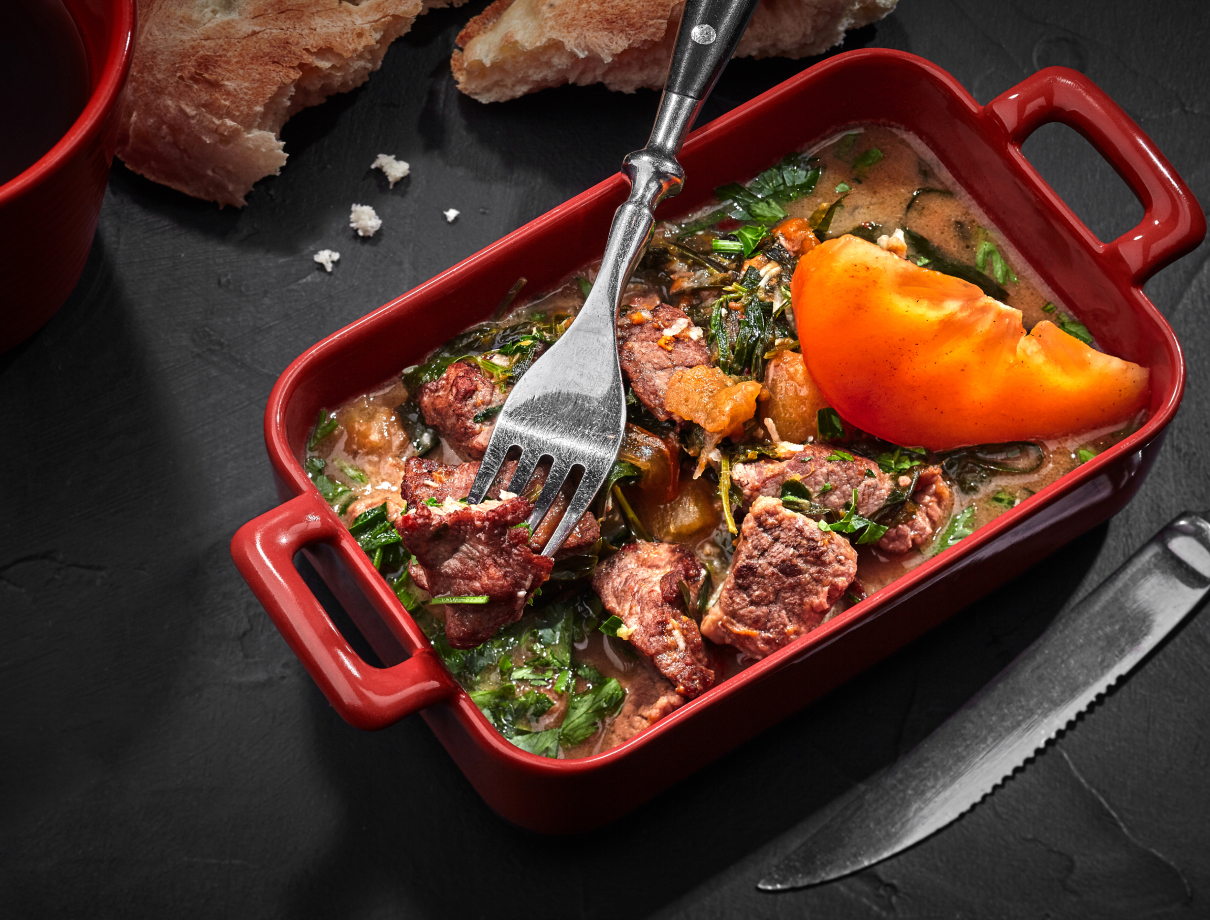
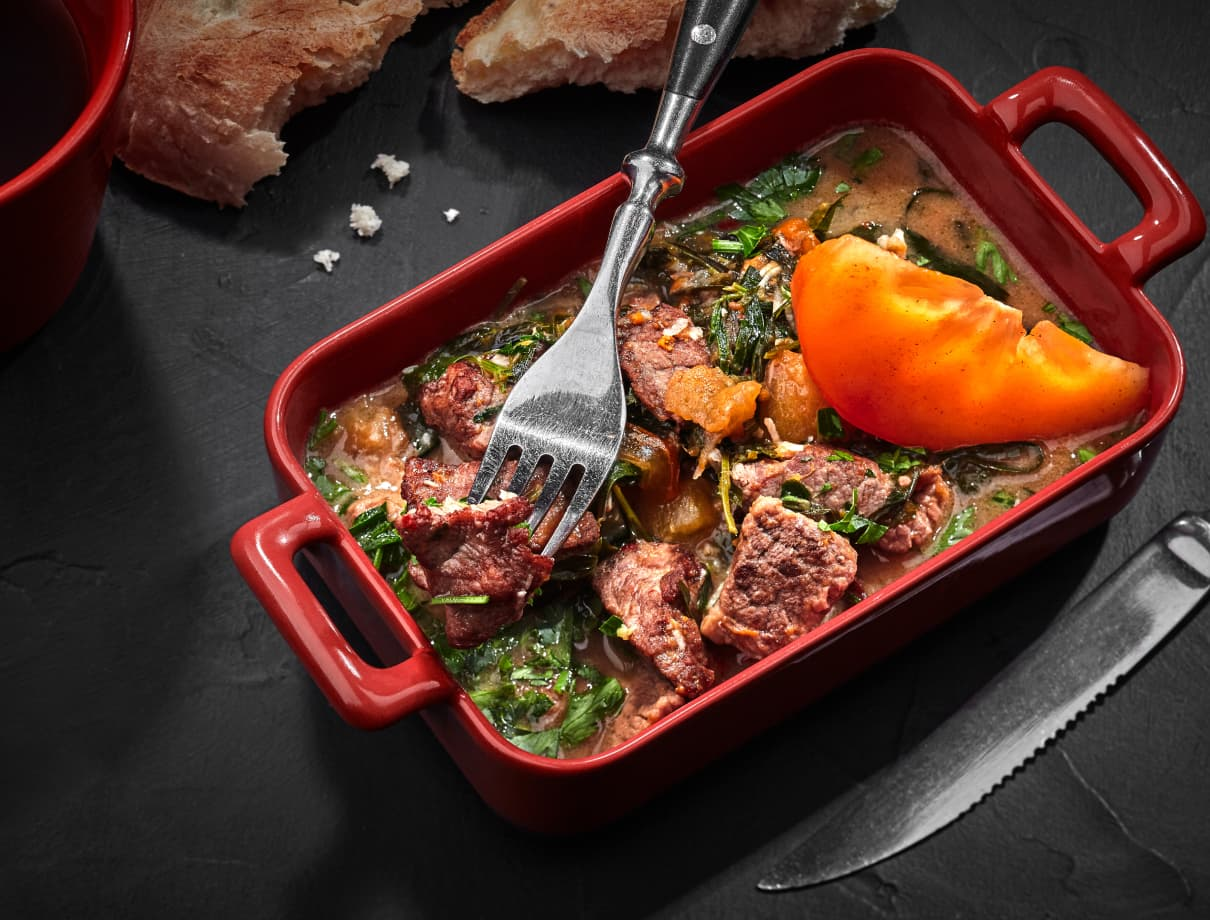
feat: Create

diff --git a/web/site/georgianProject/index.html b/web/site/georgianProject/index.html
@@ -32,10 +32,10 @@
     </header>
     <main>      
         <section class="first-block" id="main">
-            <picture class="tomato-part _anim-iteams"><img src="./img/tomato-part.png" alt=""></picture>
-            <picture class="zelen-1 _anim-iteams"><img src="./img/zelen.png" alt=""></picture>
+            <picture class="tomato-part _anim-iteams"><img src="./img/tomato-part.jpg" alt=""></picture>
+            <picture class="zelen-1 _anim-iteams"><img src="./img/zelen.jpg" alt=""></picture>
             
-            <picture class="background-main background-img"><img src="./img/background-main.png" alt=""></picture>
+            <picture class="background-main background-img"><img src="./img/background-main.jpg" alt=""></picture>
             <div>
                 <h1>Попробуй<br> лучшую
                     <span>кухню</span> <br>
@@ -55,34 +55,34 @@
             </p>
             <div class="dishes">
                 <ul>
-                    <li><a href="#"><img src="./img/Ellipse 1.png" alt="photo dish"><p>Здесь будет какой то текст, возможно назване блюда</p></a></li>
-                    <li><a href="#"><img src="./img/Ellipse 2.png" alt="photo dish"><p>Здесь будет какой то текст, возможно назване блюда</p></a></li>
-                    <li><a href="#"><img src="./img/Ellipse 3.png" alt="photo dish"><p>Здесь будет какой то текст, возможно назване блюда</p></a></li>
+                    <li><a href="#"><img src="./img/Ellipse 1.jpg" alt="photo dish"><p>Здесь будет какой то текст, возможно назване блюда</p></a></li>
+                    <li><a href="#"><img src="./img/Ellipse 2.jpg" alt="photo dish"><p>Здесь будет какой то текст, возможно назване блюда</p></a></li>
+                    <li><a href="#"><img src="./img/Ellipse 3.jpg" alt="photo dish"><p>Здесь будет какой то текст, возможно назване блюда</p></a></li>
                 </ul>
             </div>
             <button class="go-to-delivery">перейти к доставке</button>
             <picture class="luk"><img src="./img/luk.png" alt=""></picture>
         </section>
         <section class="menu-slider" id="menu-slider">
-            <picture class="tomato _anim-iteams"><img src="./img/tomato.png" alt=""></picture>
+            <picture class="tomato _anim-iteams"><img src="./img/tomato.jpg" alt=""></picture>
             
             <h3 id="menu">Меню</h3>
             <p>
                 Lorem ipsum dolor, sit amet consectetur adipisicing elit. Cumque vero sint, quasi magni sit eos veritatis, rerum natus aperiam dolores cum ad ipsum! Laborum animi, iure aliquid vel reiciendis accusantium.
             </p>
             <ul class="categories">
-                <li style="background: url('./img/Rectangle\ 17.png') no-repeat;"><span>Салаты</span><button>открыть меню</button></li>
-                <li style="background: url('./img/Rectangle\ 18.png') no-repeat;"><span>Выпечка</span><button>открыть меню</button></li>
-                <li style="background: url('./img/Rectangle\ 19.png') no-repeat;"><span>Супы</span><button>открыть меню</button></li>
-                <li style="background: url('./img/Rectangle\ 20.png') no-repeat;"><span>Блюда на мангале</span><button>открыть меню</button></li>
-                <li style="background: url('./img/Rectangle\ 21.png') no-repeat;"><span>Горячие блюда</span><button>открыть меню</button></li>
-                <li style="background: url('./img/Rectangle\ 22.png') no-repeat;"><span>Соусы</span><button>открыть меню</button></li>                
+                <li style="background: url('./img/Rectangle\ 17.jpg') no-repeat;"><span>Салаты</span><button>открыть меню</button></li>
+                <li style="background: url('./img/Rectangle\ 18.jpg') no-repeat;"><span>Выпечка</span><button>открыть меню</button></li>
+                <li style="background: url('./img/Rectangle\ 19.jpg') no-repeat;"><span>Супы</span><button>открыть меню</button></li>
+                <li style="background: url('./img/Rectangle\ 20.jpg') no-repeat;"><span>Блюда на мангале</span><button>открыть меню</button></li>
+                <li style="background: url('./img/Rectangle\ 21.jpg') no-repeat;"><span>Горячие блюда</span><button>открыть меню</button></li>
+                <li style="background: url('./img/Rectangle\ 22.jpg') no-repeat;"><span>Соусы</span><button>открыть меню</button></li>                
             </ul>
         </section>
         <section class="delivery" id="delivery">
 
-            <picture class="zelen-2 _anim-iteams"><img src="./img/zelen.png" alt=""></picture>
-            <picture class="tomato-part-2"><img src="./img/tomato-part.png" alt=""></picture>
+            <picture class="zelen-2 _anim-iteams"><img src="./img/zelen.jpg" alt=""></picture>
+            <picture class="tomato-part-2"><img src="./img/tomato-part.jpg" alt=""></picture>
             
             <h3>Удобные способы доставки</h3>
             <p>
@@ -93,7 +93,7 @@
                     <ul>
                         <li><img src="./img/Логотип-01 1.png" alt="Georgian"><span>Доставка при помощи наших курьеров при заказе от 500 грн</span></li>
                         <li><img src="./img/glovo.png" alt="Georgian"><span>Доставка при помощи сервиса по оставке еды и лальше по тексту</span></li>
-                        <li><img src="./img/bolt.png" alt="Georgian"><span>Доставка при помощи сервиса по оставке еды и лальше по тексту</span></li>
+                        <li><img src="./img/bolt.jpg" alt="Georgian"><span>Доставка при помощи сервиса по оставке еды и лальше по тексту</span></li>
                     </ul>
                     <img src="./img/foodphoto.jpg" alt="any food">
                 </div>
